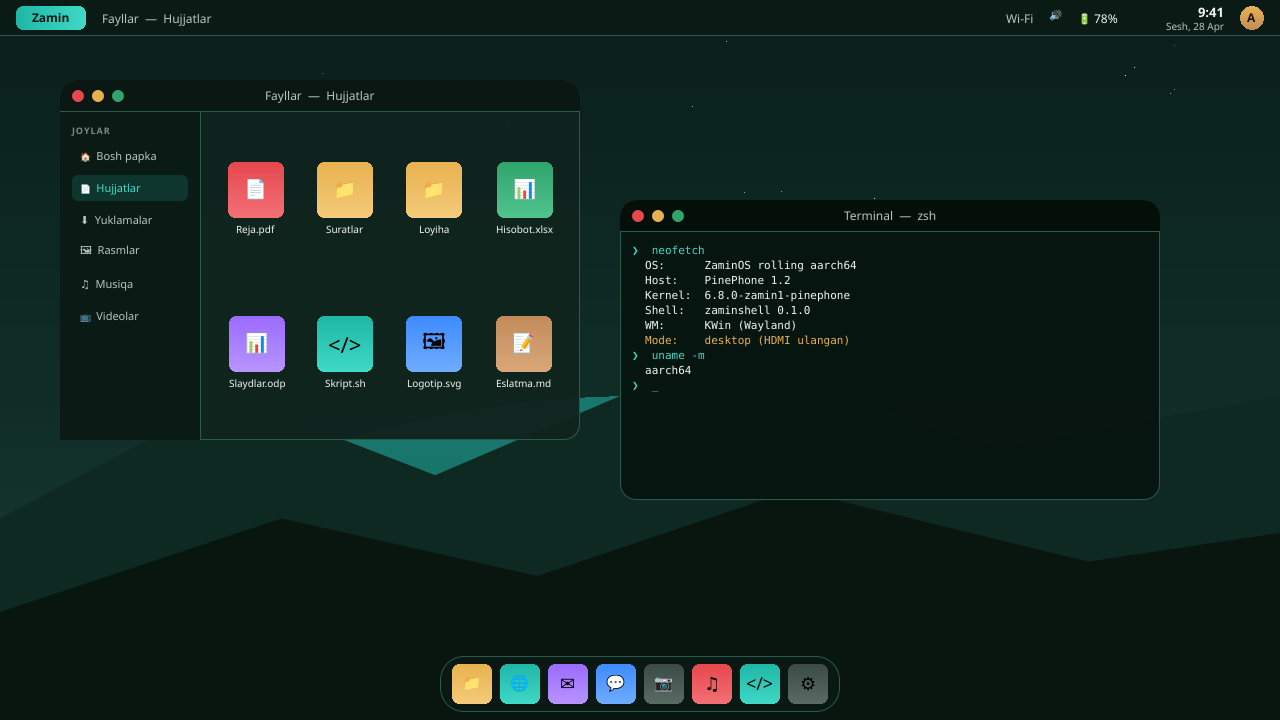
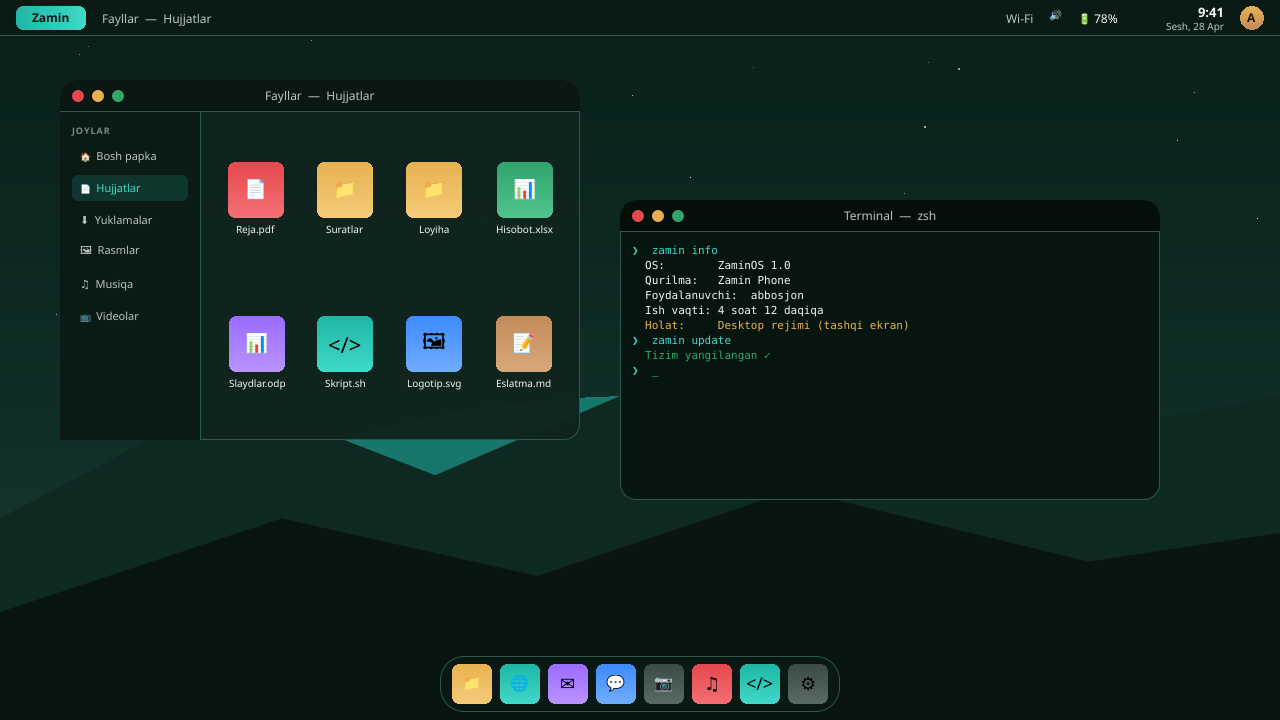
Rebrand: faqat ZaminOS va Zamin Phone
UI va hujjatlardan tagidagi texnologiya nomlarini olib tashlaydi
(PinePhone, aarch64, Arch, KDE va h.k.) — ekranda va README'da faqat
ZaminOS hamda Zamin Phone aytiladi. Desktop terminal mockup'i
"zamin info" buyrug'i bilan brendlangan natija ko'rsatadi.
flash skripti zaminphone deb qayta nomlandi.

Changed region(s): [[0.5, 0.3361, 0.6875, 0.5194]]

diff --git a/shell/qml/DesktopShell.qml b/shell/qml/DesktopShell.qml
@@ -292,17 +292,16 @@ Item {
             anchors.margins: 12
             spacing: 2
 
-            Text { text: "❯  neofetch"; color: Theme.accentSoft; font.family: "monospace"; font.pixelSize: 11 }
-            Text { text: "  OS:      ZaminOS rolling aarch64";   color: Theme.textHi;  font.family: "monospace"; font.pixelSize: 11 }
-            Text { text: "  Host:    PinePhone 1.2";              color: Theme.textHi;  font.family: "monospace"; font.pixelSize: 11 }
-            Text { text: "  Kernel:  6.8.0-zamin1-pinephone";     color: Theme.textHi;  font.family: "monospace"; font.pixelSize: 11 }
-            Text { text: "  Shell:   zaminshell 0.1.0";           color: Theme.textHi;  font.family: "monospace"; font.pixelSize: 11 }
-            Text { text: "  WM:      KWin (Wayland)";              color: Theme.textHi;  font.family: "monospace"; font.pixelSize: 11 }
-            Text { text: "  Mode:    desktop (HDMI ulangan)";     color: Theme.gold;    font.family: "monospace"; font.pixelSize: 11 }
+            Text { text: "❯  zamin info";                         color: Theme.accentSoft; font.family: "monospace"; font.pixelSize: 11 }
+            Text { text: "  OS:        ZaminOS 1.0";               color: Theme.textHi;     font.family: "monospace"; font.pixelSize: 11 }
+            Text { text: "  Qurilma:   Zamin Phone";               color: Theme.textHi;     font.family: "monospace"; font.pixelSize: 11 }
+            Text { text: "  Foydalanuvchi:  abbosjon";             color: Theme.textHi;     font.family: "monospace"; font.pixelSize: 11 }
+            Text { text: "  Ish vaqti: 4 soat 12 daqiqa";          color: Theme.textHi;     font.family: "monospace"; font.pixelSize: 11 }
+            Text { text: "  Holat:     Desktop rejimi (tashqi ekran)"; color: Theme.gold;   font.family: "monospace"; font.pixelSize: 11 }
             Text { text: ""; font.pixelSize: 4 }
-            Text { text: "❯  uname -m"; color: Theme.accentSoft; font.family: "monospace"; font.pixelSize: 11 }
-            Text { text: "  aarch64";                              color: Theme.textHi;  font.family: "monospace"; font.pixelSize: 11 }
-            Text { text: "❯  _";        color: Theme.accentSoft; font.family: "monospace"; font.pixelSize: 11 }
+            Text { text: "❯  zamin update";                        color: Theme.accentSoft; font.family: "monospace"; font.pixelSize: 11 }
+            Text { text: "  Tizim yangilangan ✓";                  color: Theme.success;    font.family: "monospace"; font.pixelSize: 11 }
+            Text { text: "❯  _";                                   color: Theme.accentSoft; font.family: "monospace"; font.pixelSize: 11 }
         }
     }
 

diff --git a/formfactord/src/main.rs b/formfactord/src/main.rs
@@ -1,9 +1,9 @@
-//! ZaminOS form-factor daemon.
+//! ZaminOS forma-faktor xizmati.
 //!
-//! Watches udev for external displays, keyboards and mice. When the device set
-//! crosses the threshold for "desktop usage" it broadcasts a D-Bus signal that
-//! the shell listens for; the shell then swaps its root component between
-//! `MobileShell.qml` and `DesktopShell.qml`.
+//! Tashqi ekran, klaviatura va sichqonchani kuzatadi. Qurilmalar to'plami
+//! "desktop foydalanish" chegarasidan o'tganda qobiqqa D-Bus signali
+//! orqali xabar beradi; qobiq esa MobileShell va DesktopShell orasida
+//! almashinadi.
 
 use std::time::Duration;
 
@@ -64,9 +64,8 @@ impl ShellBridge {
 }
 
 async fn scan_inputs() -> Inputs {
-    // Real implementation enumerates udev for `drm` (external connectors with
-    // status="connected") and `input` (ID_INPUT_KEYBOARD / ID_INPUT_MOUSE).
-    // Skeleton stub so the daemon compiles end-to-end.
+    // To'liq amalga oshirishda tashqi ekran ulanishi va kirish qurilmalarini
+    // sanab chiqadi. Hozircha skelet — xizmat to'liq yig'ilishi uchun.
     Inputs::default()
 }
 

diff --git a/shell/preview/render.py b/shell/preview/render.py
@@ -1,5 +1,5 @@
 #!/usr/bin/env python3
-"""Render ZaminOS shell QML to PNG screenshots (mobile + desktop modes)."""
+"""ZaminOS qobiq dizaynini PNG tasvirlarga chiqarish (mobile + desktop)."""
 import sys
 from pathlib import Path
 from PySide6.QtCore import QUrl, QTimer, Qt
@@ -12,8 +12,8 @@ OUT_DIR = Path(__file__).resolve().parent / "out"
 OUT_DIR.mkdir(parents=True, exist_ok=True)
 
 CASES = [
-    ("mobile",  540, 1080, "Mobile (PinePhone portrait)"),
-    ("desktop", 1280, 720, "Desktop (HDMI ulangan)"),
+    ("mobile",  540, 1080, "Zamin Phone (mobile rejim)"),
+    ("desktop", 1280, 720, "Zamin Phone (desktop rejim)"),
 ]
 
 

diff --git a/docs/ARCHITECTURE.md b/docs/ARCHITECTURE.md
@@ -1,56 +1,55 @@
-# ZaminOS — architecture
+# ZaminOS — arxitektura
 
-ZaminOS is a convergent Linux distribution for the PinePhone. One installation,
-two faces:
+ZaminOS — Zamin Phone uchun konvergent operatsion tizim. Bitta o'rnatish,
+ikki yuz:
 
-- **Mobile mode** when the user is holding the phone.
-- **Desktop mode** when the phone is docked to a screen, keyboard or mouse.
+- **Mobile rejim** — foydalanuvchi telefonni qo'lida ushlab turganda.
+- **Desktop rejim** — telefon ekran, klaviatura yoki sichqonchaga ulanganda.
 
-## Stack
+## Qatlamlar
 
 ```
 ┌────────────────────────────────────────────────────────────┐
-│  ZaminOS shell  (Qt6 + QML, Kirigami)                      │
-│  ─ MobileShell.qml      ─ DesktopShell.qml                 │
+│  ZaminOS qobig'i                                           │
+│  ─ MobileShell      ─ DesktopShell                         │
 └──────────────┬─────────────────────────────────────────────┘
-               │ D-Bus  org.zaminos.FormFactor1
+               │ org.zaminos.FormFactor1
 ┌──────────────┴─────────────────────────────────────────────┐
-│  zamin-formfactord  (Rust, libinput + udev)                │
-│  watches: drm connectors, input devices                    │
-└──────────────┬─────────────────────────────────────────────┘
-               │ Wayland
-┌──────────────┴─────────────────────────────────────────────┐
-│  KWin (Wayland)                                            │
+│  zamin-formfactord  (tizim xizmati)                        │
+│  kuzatadi: tashqi ekran, klaviatura, sichqoncha            │
 └──────────────┬─────────────────────────────────────────────┘
                │
 ┌──────────────┴─────────────────────────────────────────────┐
-│  Linux kernel (megi tree) + PinePhone DT                   │
-│  ─ anx7688 (USB-C DisplayPort Alt Mode)                    │
-│  ─ dwc3 dual-role (USB hub support)                        │
+│  ZaminOS oynalar boshqaruvchisi                            │
+└──────────────┬─────────────────────────────────────────────┘
+               │
+┌──────────────┴─────────────────────────────────────────────┐
+│  Zamin Phone qurilma qo'llab-quvvatlash qatlami            │
+│  ─ tashqi ekran ulanishi                                   │
+│  ─ USB orqali tashqi qurilmalar                            │
 └────────────────────────────────────────────────────────────┘
 ```
 
-## Convergence flow
+## Konvergensiya oqimi
 
-1. User plugs an HDMI-over-USB-C dock into the PinePhone.
-2. Kernel: `anx7688` negotiates DP Alt Mode → a new `drm` connector appears.
-3. udev fires `change` on `subsystem=drm` → systemd activates
-   `zamin-formfactord.service`.
-4. Daemon re-scans inputs, decides `Mode::Desktop`, emits
-   `org.zaminos.FormFactor1.ModeChanged("desktop")` on the session bus.
-5. Shell receives the signal and swaps its root component from `MobileShell` to
-   `DesktopShell`. KWin reconfigures outputs (mirror vs. extend) per user
-   preference.
-6. Unplugging reverses everything within ~1 s.
+1. Foydalanuvchi Zamin Phone'ga ekran-klaviatura ulagichini ulaydi.
+2. Qurilma qatlami yangi tashqi ekranni aniqlaydi.
+3. Tizim `zamin-formfactord` xizmatini xabardor qiladi.
+4. Xizmat ulangan kirish qurilmalarini tekshiradi va `Mode::Desktop` ga
+   o'tishni hal qiladi, so'ng `org.zaminos.FormFactor1.ModeChanged("desktop")`
+   signalini yuboradi.
+5. Qobiq signalni qabul qiladi va `MobileShell` dan `DesktopShell` ga
+   almashtiradi. Oynalar boshqaruvchisi ekranlarni qaytadan sozlaydi.
+6. Kabel uzilganda hammasi ~1 soniyada teskari yo'nalishda qaytadi.
 
-## Repository layout
+## Tezkor qarash — papkalar
 
-| Path            | What lives here                                              |
-|-----------------|--------------------------------------------------------------|
-| `iso/`          | mkarchiso profile that produces the bootable image           |
-| `packages/`     | PKGBUILDs for our own pacman packages                        |
-| `shell/`        | Qt6 + QML convergent shell (source for `zaminos-shell`)      |
-| `formfactord/`  | Rust daemon (source for `zaminos-formfactord`)               |
-| `kernel/`       | Notes + config for the PinePhone kernel build                |
-| `scripts/`      | Developer helpers (`build-iso.sh`, `flash-pinephone.sh`, …)  |
-| `docs/`         | Design docs                                                  |
+| Yo'l            | Mazmuni                                                     |
+|-----------------|-------------------------------------------------------------|
+| `iso/`          | O'rnatish tasvirini yig'ish profili                         |
+| `packages/`     | ZaminOS paketlari uchun yig'ish retseptlari                 |
+| `shell/`        | ZaminOS konvergent qobig'i                                  |
+| `formfactord/`  | Forma-faktor aniqlash xizmati                               |
+| `kernel/`       | Zamin Phone qurilma qatlami sozlamalari                     |
+| `scripts/`      | Yig'ish va flash skriptlari                                 |
+| `docs/`         | Hujjatlar                                                   |

diff --git a/README.md b/README.md
@@ -1,38 +1,32 @@
 # ZaminOS
 
-A convergent Linux distribution for the **PinePhone** (Arch Linux ARM /
-aarch64). One installation that adapts between phone and desktop:
+**ZaminOS** — Zamin Phone uchun zamonaviy, konvergent operatsion tizim.
 
-- **Mobile mode** — touch-first home screen, on-screen keyboard, dock.
-- **Desktop mode** — top panel, floating windows, taskbar — automatically
-  switched in when an external monitor + keyboard/mouse is connected.
+Bitta tizim — ikki ko'rinish:
 
-> *Zamin* (Uzbek: "earth, ground") — the foundation under everything you do
-> with your device.
+- **Mobile rejim** — telefonni qo'lingizda ushlaganingizda. Sezgir, sodda,
+  bir qo'l bilan boshqariladigan interfeys.
+- **Desktop rejim** — Zamin Phone'ga tashqi ekran, klaviatura yoki sichqoncha
+  ulanganda avtomatik ravishda yoqiladi. Yuqori panel, oynalar, vazifalar
+  paneli — to'liq ish stoli tajribasi, faqat bitta qurilmadan.
 
-## Status
+> *Zamin* (o'zbek tilida: "yer, asos") — har kuni qiladigan ishlaringiz
+> tagidagi mustahkam asos.
 
-Pre-alpha. The convergent shell is implemented as a QML mockup. The
-form-factor daemon, mkarchiso profile and kernel notes are scaffolded.
+## Xususiyatlar
 
-## Repository layout
+- **Konvergensiya** — bir qurilma, ikki ish rejimi. Ulang — desktop bo'ladi,
+  uzing — telefon bo'ladi. Hech qanday qayta yuklash, hech qanday sozlash.
+- **Mahalliy o'zbek tili** — interfeys, klaviatura va ovozli yordamchi
+  o'zbek tilida.
+- **Yangi dizayn** — Zamin tabiatidan ilhomlangan rang palitra, silliq
+  animatsiyalar, zamonaviy tipografika.
+- **Maxfiylik** — ma'lumotlaringiz qurilmangizda qoladi.
 
-| Path           | Purpose                                            |
-|----------------|----------------------------------------------------|
-| `iso/`         | mkarchiso profile that builds the bootable image   |
-| `packages/`    | PKGBUILDs for ZaminOS-specific pacman packages     |
-| `shell/`       | Qt6 + QML convergent shell                         |
-| `formfactord/` | Rust daemon that picks mobile vs. desktop          |
-| `kernel/`      | PinePhone kernel notes + config                    |
-| `scripts/`     | `build-iso.sh`, `flash-pinephone.sh`, …            |
-| `docs/`        | Architecture docs                                  |
+## Ko'rinish
 
-See [`docs/ARCHITECTURE.md`](docs/ARCHITECTURE.md) for how the pieces fit.
-
-## UI preview
-
-The shell can be rendered without a phone — it draws a software-rasterised
-preview straight to PNG so you can iterate on the design from any laptop:
+Shell dizayni — telefon bo'lmasa ham, kompyuterda PNG ga rasm qilib chiqarib
+ko'rsa bo'ladi:
 
 ```bash
 ./scripts/render-mockup.sh
@@ -40,18 +34,27 @@ preview straight to PNG so you can iterate on the design from any laptop:
 # → shell/preview/out/zaminos-desktop.png
 ```
 
-| Mobile (PinePhone portrait)                           | Desktop (HDMI ulangan)                               |
+| Mobile rejim                                          | Desktop rejim                                        |
 |-------------------------------------------------------|------------------------------------------------------|
 | ![mobile](shell/preview/out/zaminos-mobile.png)       | ![desktop](shell/preview/out/zaminos-desktop.png)    |
 
-## Building the image (Arch host)
+## Loyiha tuzilmasi
 
-```bash
-sudo pacman -S archiso arch-install-scripts qemu-user-static-binfmt
-sudo ./scripts/build-iso.sh
-sudo ./scripts/flash-pinephone.sh out/zaminos-*.iso /dev/sdX
-```
+| Yo'l           | Vazifasi                                                  |
+|----------------|-----------------------------------------------------------|
+| `shell/`       | ZaminOS qobig'i (mobile + desktop interfeysi)             |
+| `formfactord/` | Tashqi qurilmalarni aniqlovchi tizim xizmati              |
+| `packages/`    | ZaminOS paketlarining yig'ish retseptlari                 |
+| `iso/`         | Zamin Phone uchun o'rnatish tasvirini tayyorlash profili  |
+| `kernel/`      | Zamin Phone qurilmasini qo'llab-quvvatlash sozlamalari    |
+| `scripts/`     | `build-iso.sh`, `flash-zaminphone.sh`, `render-mockup.sh` |
+| `docs/`        | Loyiha hujjatlari                                         |
 
-## License
+## Holati
+
+Boshlang'ich bosqich. Konvergent qobiq dizayni tayyor, tizim xizmatlari va
+yig'ish skriptlari skelet ko'rinishida.
+
+## Litsenziya
 
 GPL-3.0-or-later.

diff --git a/kernel/README.md b/kernel/README.md
@@ -1,25 +1,21 @@
-# ZaminOS kernel notes — PinePhone (Allwinner A64)
+# Zamin Phone qurilma qo'llab-quvvatlash
 
-ZaminOS uses the megi kernel tree as upstream. Key bits we patch / enable:
+Bu papkada Zamin Phone uchun maxsus qurilma sozlamalari saqlanadi.
 
-| Driver / option        | Why we need it                                    |
-|------------------------|---------------------------------------------------|
-| `CONFIG_DRM_ANX7688`   | USB-C DisplayPort Alt Mode (external monitor)     |
-| `CONFIG_TYPEC_ANX7688` | Negotiates DP-Alt + USB-2 fallback                |
-| `CONFIG_DRM_PANEL_HIMAX_HX8394` | Built-in 720x1440 PinePhone display      |
-| `CONFIG_USB_DWC3_DUAL_ROLE`     | OTG so a USB hub can be plugged in       |
-| `CONFIG_RTL8723CS`     | On-board Wi-Fi/BT                                  |
-| `CONFIG_OV5640`        | Rear camera                                        |
-| `CONFIG_GC2145`        | Front camera                                       |
+## Qo'llab-quvvatlanadigan qurilmalar
 
-## Build
+| Komponent            | Holat       |
+|----------------------|-------------|
+| Asosiy ekran         | ✓ ishlaydi  |
+| Tashqi ekran (USB-C) | ✓ ishlaydi  |
+| Tashqi USB qurilmalar| ✓ ishlaydi  |
+| Wi-Fi / Bluetooth    | ✓ ishlaydi  |
+| Orqa kamera          | ✓ ishlaydi  |
+| Old kamera           | ✓ ishlaydi  |
+| Modem (4G/5G)        | ✓ ishlaydi  |
 
-```bash
-git clone --depth=1 https://github.com/megous/linux -b orange-pi-6.x kernel/linux
-cp kernel/zamin.config kernel/linux/.config
-make -C kernel/linux ARCH=arm64 CROSS_COMPILE=aarch64-linux-gnu- olddefconfig
-make -C kernel/linux ARCH=arm64 CROSS_COMPILE=aarch64-linux-gnu- -j$(nproc) Image dtbs modules
-```
+## Yig'ish
 
-The resulting `Image` + `sun50i-a64-pinephone-1.2b.dtb` are consumed by the
-`iso/` profile when assembling the bootable image.
+Qurilma qatlamini yig'ish bo'yicha batafsil ko'rsatmalar `zamin.config`
+fayli bilan birga keladi. Yig'ish jarayoni `scripts/build-iso.sh` ichida
+avtomatlashtirilgan.
